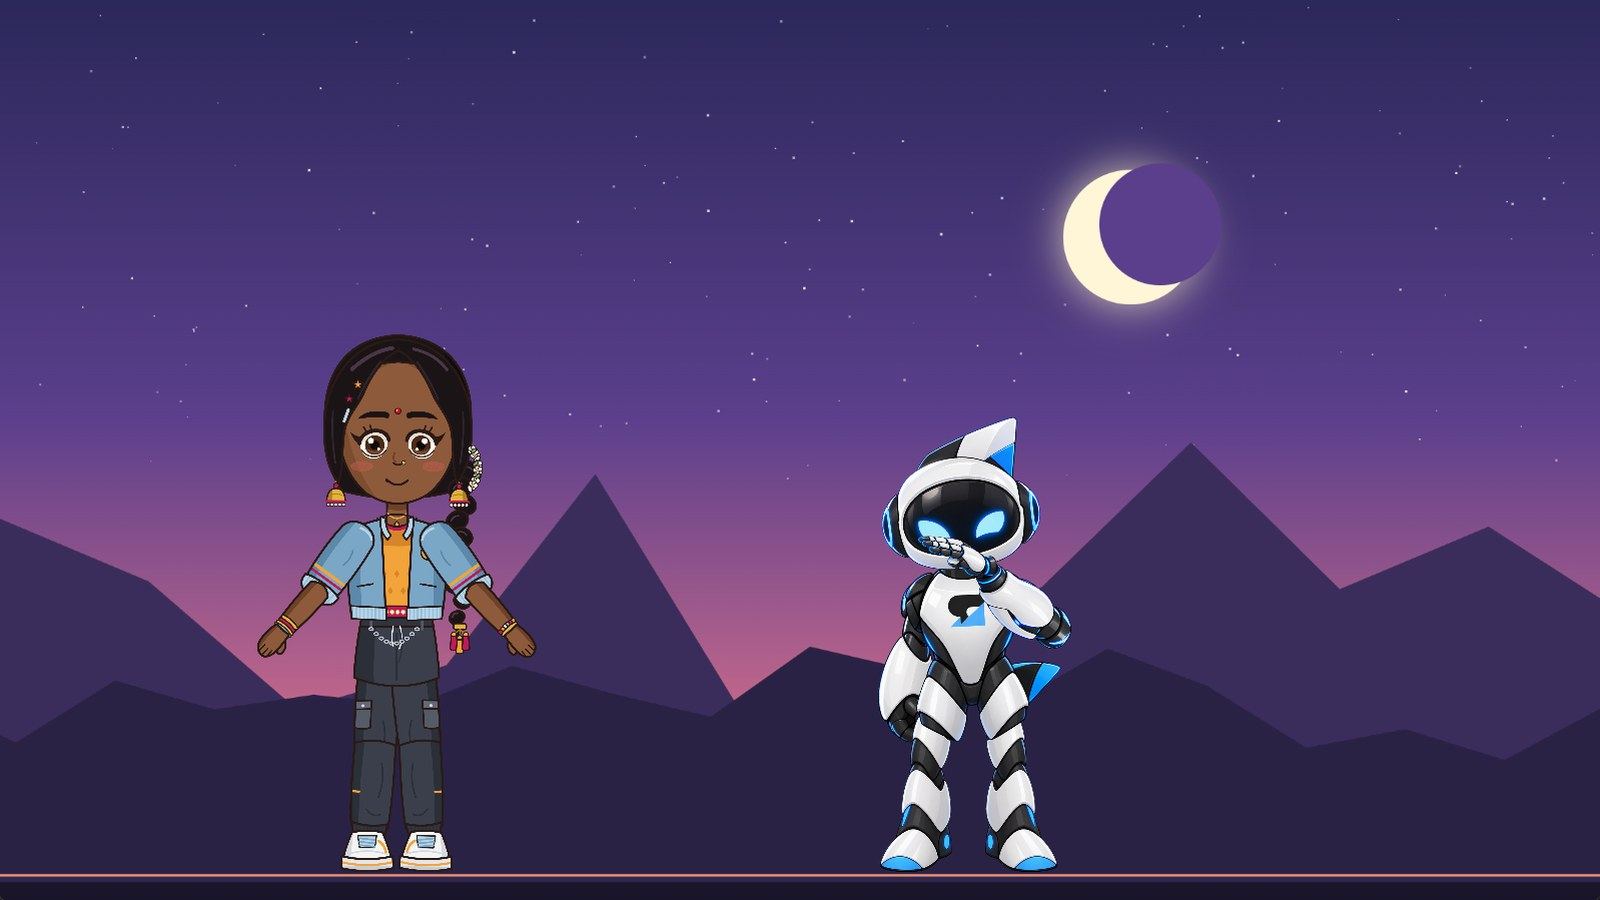
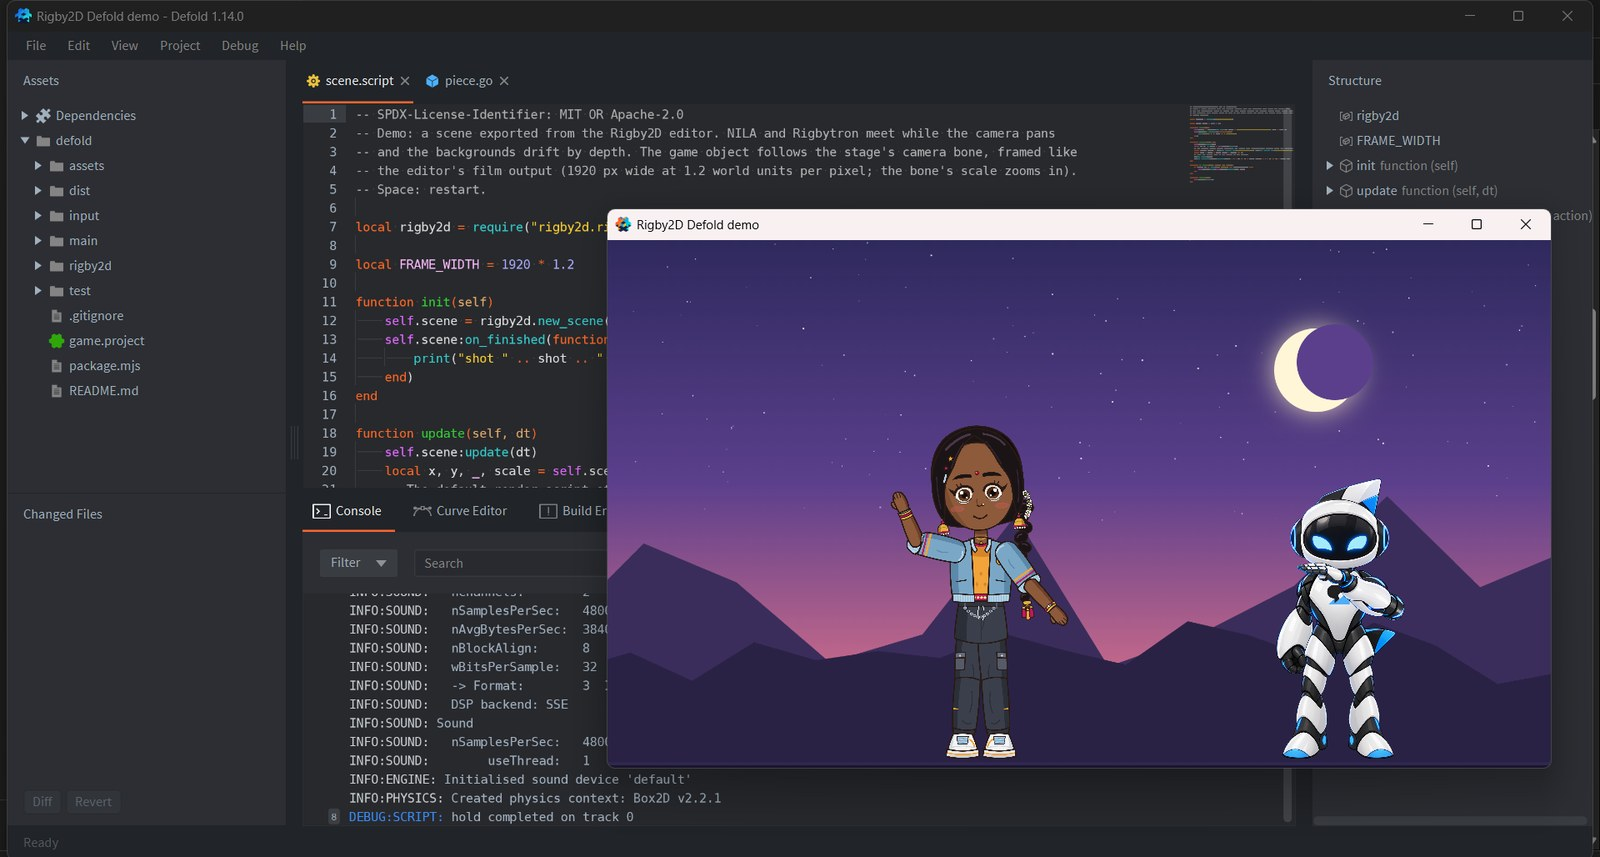
Defold runtime: build in the Defold editor (mesh pieces name a normal stream)
The Defold editor refuses a world-space mesh without a normal stream, which the command-line
builder does not check. The pieces now carry an unused normal stream. The devlog's Defold shot
shows the editor with the demo running.

diff --git a/runtimes/defold/rigby2d/piece.go b/runtimes/defold/rigby2d/piece.go
@@ -6,5 +6,6 @@ embedded_components {
   "textures: \"/builtins/graphics/particle_blob.png\"\n"
   "primitive_type: PRIMITIVE_TRIANGLES\n"
   "position_stream: \"position\"\n"
+  "normal_stream: \"normal\"\n"
   ""
 }

diff --git a/site/blog/posts/2026-11-03-defold-and-sprite-sheets-zh.md b/site/blog/posts/2026-11-03-defold-and-sprite-sheets-zh.md
@@ -12,7 +12,7 @@ Rigby2D 0.5 的内容更多了。[r/rigby2d](https://www.reddit.com/r/rigby2d/) 
 **Defold 运行时** 和 **精灵图集导出**。它们将与 [第一篇 0.5 预告](/blog/coming-in-0-5-zh.html) 中的所有内容一起，
 在 **11 月 6 日（周五）** 随 0.5 发布。[English](/blog/defold-and-sprite-sheets.html)。
 
-![NILA 和 Rigbytron 在 Rigby2D 编辑器制作的场景中，于 Defold 1.14 里播放](/docs/images/devlog-defold-scene.jpg)
+![Defold 1.14 编辑器打开了演示项目，由它启动的游戏正在播放 Rigby2D 编辑器制作的 NILA 与 Rigbytron 场景](/docs/images/devlog-defold-scene.jpg)
 
 ## Defold：完整的运行时
 

diff --git a/site/blog/posts/2026-11-03-defold-and-sprite-sheets.md b/site/blog/posts/2026-11-03-defold-and-sprite-sheets.md
@@ -12,7 +12,7 @@ Rigby2D 0.5 got bigger. Two of the most asked-for features on
 export**. Both come with 0.5 on **Friday, November 6**, along with everything in the
 [first 0.5 preview](/blog/coming-in-0-5.html). [中文版本](/blog/defold-and-sprite-sheets-zh.html).
 
-![NILA and Rigbytron in a scene from the Rigby2D editor, playing in Defold 1.14](/docs/images/devlog-defold-scene.jpg)
+![The Defold 1.14 editor with the demo project open, and the game it launched playing NILA and Rigbytron in a scene from the Rigby2D editor](/docs/images/devlog-defold-scene.jpg)
 
 ## Defold, as a full runtime
 
